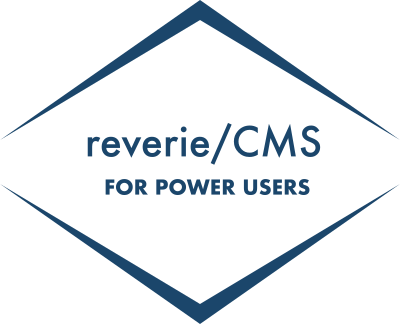
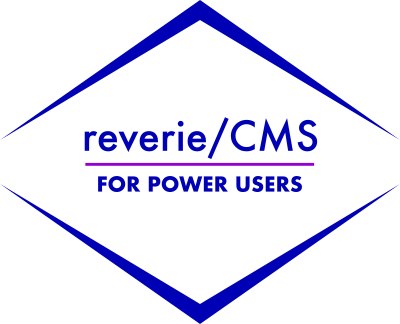
color changes

diff --git a/less/admin.colours.less b/less/admin.colours.less
@@ -5,9 +5,9 @@
 // @queens-blue: #436B95;
 // @orange: #ff7f00;
 
-@primary: #1b466b; // cyan/blue
-@secondary: lighten(spin(@primary, 20), 20%);
-@tertiary: lighten(spin(@primary, 30), 30%); // darken(@primary, 20%);
+@primary: #0000b4; // blue
+@secondary: #9400d3; // purple
+@tertiary: #00c12b; // black
 
 // Grays
 // -------------------------
@@ -18,7 +18,7 @@
 @gray:                   lighten(#000, 33.5%); // #555
 @gray-light:             lighten(#000, 60%);   // #999
 @gray-lighter:           lighten(#000, 93.5%); // #eee
-@white: #f5f5f5;
+@white: #fff;
 
 // Brand colors
 // -------------------------
